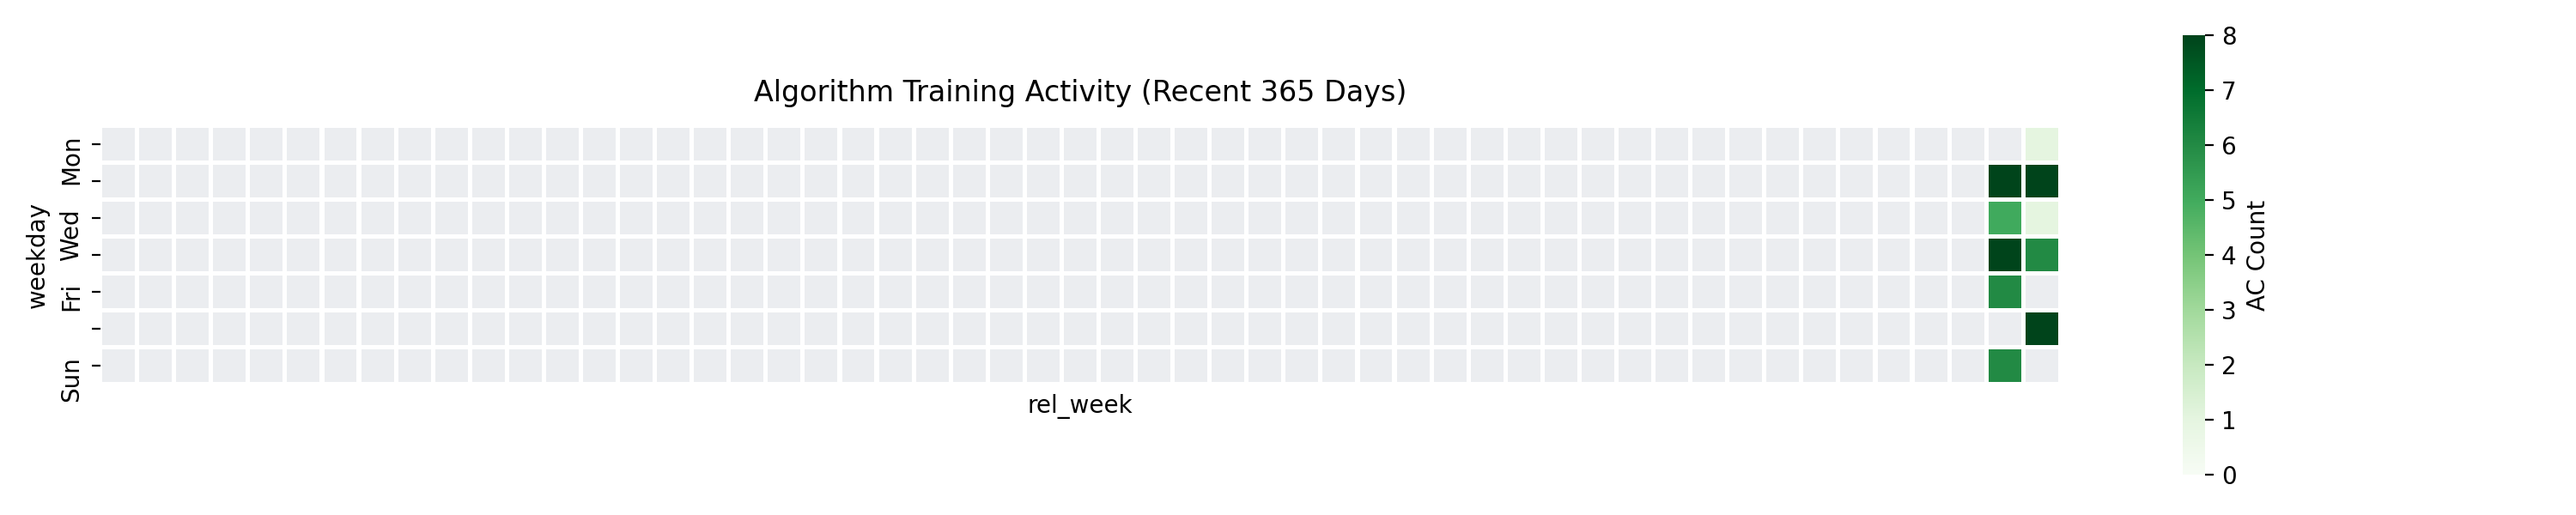
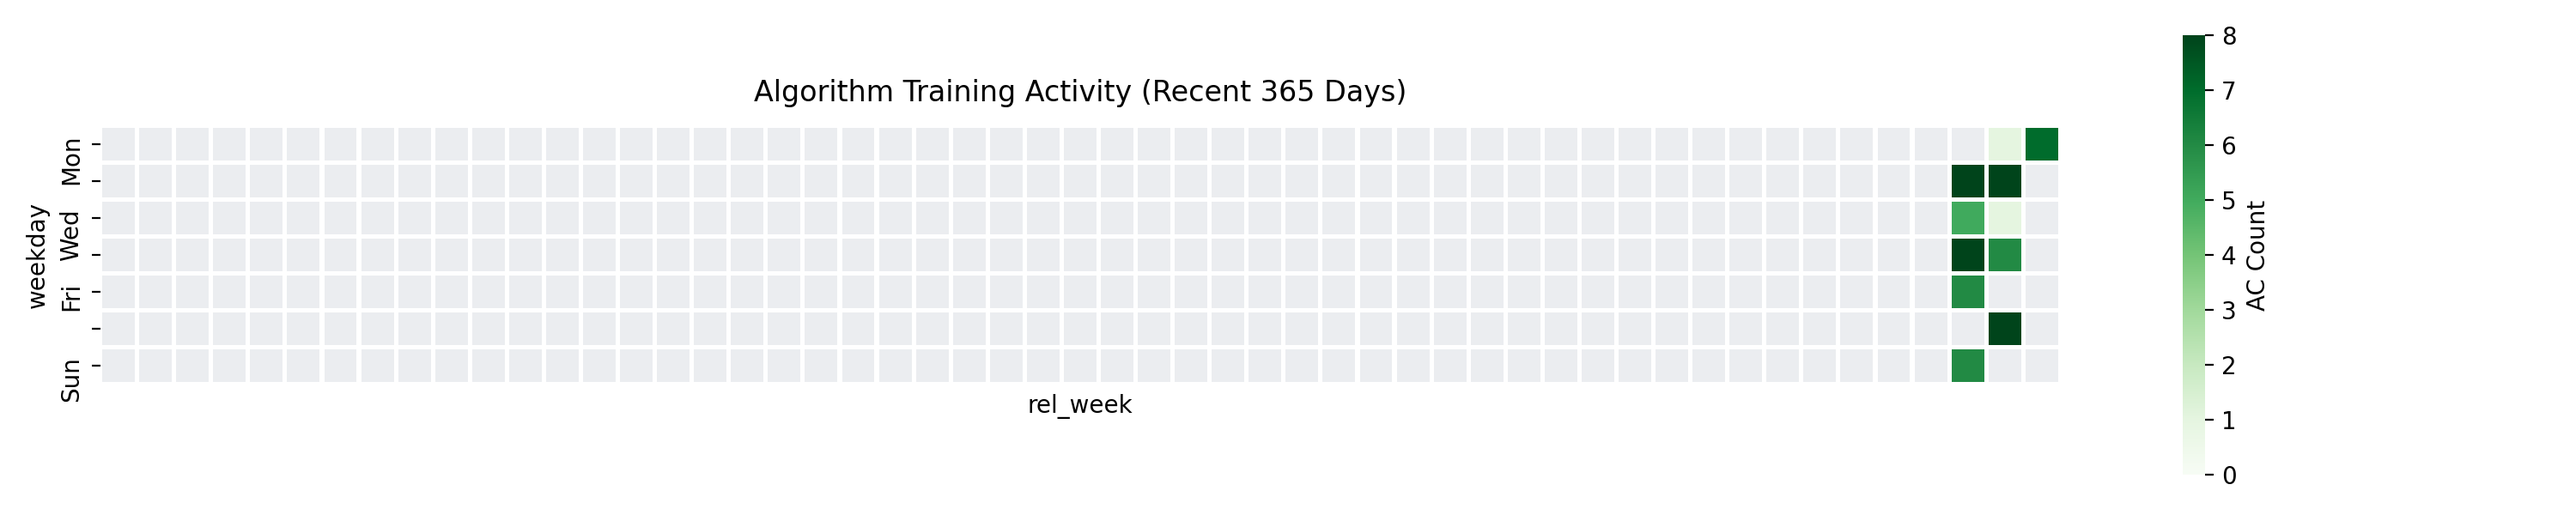
Auto sync: 周一 2026/02/09 23:08:40.57

Changed region(s): [[0.744, 0.24, 0.806, 0.75]]

diff --git a/Attempted/Nowcoder/东风谷早苗与博丽灵梦.cpp b/Attempted/Nowcoder/东风谷早苗与博丽灵梦.cpp
@@ -1,0 +1,107 @@
+#include <bits/stdc++.h>
+using namespace std;
+#define int long long
+#define endl '\n'
+#define LNF 1e18
+#define INF 0x3f3f3f3f
+#define PII pair<int, int>
+
+int c1 = 0, c2 = 0;
+
+int exGcd (int a, int b, int &x, int &y) {
+    if (a==0 && b==0) return -1; // 无gcd
+    if (b == 0) {
+        x = 1;
+        y = 0;
+        return a;
+    }
+    int d = exGcd(b, a%b, y, x);
+    y -= a / b * x;
+    return d;
+}
+
+void solve(){
+    int n, a, b;cin >> n >> a >> b;
+    if (n % gcd(a, b)) {
+        cout << "No" << endl;
+        return;
+    }
+    int x, y;
+    exGcd(a, b, x, y);
+    // cout << x << ' ' << y << endl;
+    x *= n / gcd(a, b);
+    y *= n / gcd(a, b);
+
+    int k1 = b / gcd(a, b);
+    int k2 = a / gcd(a, b);
+    PII res = {x, y};
+    // cout << "++++" << x << ' ' << y << endl;
+    if (x < y) {
+        // while (x < y) {
+        //     // cout << "+++" << x << ' ' << y << endl;
+        //     x += k1;
+        //     y -= k2;
+        //     if (max(x, y) < max(res.first, res.second)) res = {x, y};
+        // }
+        int i = 0, j = 1e18 / max(x, y);
+        int ans = 0;
+        while (i + 1 < j) {
+            int mid = i + j >> 1;
+            if (x + mid * k1 < 0) i = mid;
+            else if (y-mid*k2 < x+mid*k1) {
+                j = mid;
+            } else {
+                i = mid;
+                ans = i;
+            }
+        }
+        x += ans * k1;
+        y -= ans * k2;
+        int nx = x + k1;
+        int ny = y - k2;
+        if (min(nx, ny) >= 0 && (max(nx, ny)) < max(x, y)) {
+            x = nx;
+            y = ny;
+        }
+    } else {
+        // while (x > y) {
+        //     // cout << "+++" << x << ' ' << y << endl;
+        //     x -= k1;
+        //     y += k2;
+        //     if (max(x, y) < max(res.first, res.second)) res = {x, y};
+        // }
+        int i = 0, j = 1e18 / max(x, y);
+        int ans = 0;
+        while (i + 1 < j) {
+            int mid = i + j >> 1;
+            if (y + mid * k2) i = mid;
+            else if (x-mid*k1 < y+mid*k2) {
+                j = mid;
+            } else {
+                i = mid;
+                ans = i;
+            }
+        }
+        x -= ans * k1;
+        y += ans * k2;
+        // cout << "下";
+        int nx = x - k1;
+        int ny = y + k2;
+        if (min(nx, ny) >= 0 && (max(nx, ny)) < max(x, y)) {
+            x = nx;
+            y = ny;
+        }
+    }
+    if (min(x, y) < 0) cout << "No" << endl;
+    else {
+        cout << "Yes" << endl;
+        cout << x << ' ' << y << endl;
+    }
+}
+
+signed main() {
+    ios::sync_with_stdio(false);
+    cin.tie(nullptr);cout.tie(nullptr);
+    int T = 1;cin >> T;
+    while (T--) solve();
+}

diff --git a/Accepted/Nowcoder/2026-02-09/时不时使使用玉米加农炮掩饰害羞的邻座艾莉同学.cpp b/Accepted/Nowcoder/2026-02-09/时不时使使用玉米加农炮掩饰害羞的邻座艾莉同学.cpp
@@ -1,0 +1,68 @@
+#include <bits/stdc++.h>
+using namespace std;
+#define int long long
+#define endl '\n'
+#define LNF 1e18
+#define INF 0x3f3f3f3f
+#define PII pair<int, int>
+
+int n, m;
+bool isGood(int x, int y) {
+    return x>=1 && x<=n && y>=1 && y<=m;
+}
+
+void solve(){
+    int q;cin >> n >> m >> q;
+    vector<vector<int>> arr(n + 7, vector<int>(m + 7));
+    for (int i = 1; i <= n; i++) {
+        for (int j= 1; j <= m; j++) cin >> arr[i][j];
+    }
+
+    vector<vector<int>> cnt(n + 1, vector<int>(m + 1));
+    PII res = {1, 1};
+    int mx = 0;
+    for (int i = 1; i <= n; i++) {
+        for (int j = 1; j <= m; j++) {
+            int x = i, y = j;
+            for (int xx = -2; xx <= 2; xx++) {
+                for (int yy = -2; yy <= 2; yy++) {
+                    if (abs(xx) + abs(yy) > 2) continue;
+                    int nx = x + xx;
+                    int ny = y + yy;
+                    if (isGood(nx, ny)) cnt[x][y] += arr[nx][ny];
+                }
+            }
+            if (cnt[x][y] > mx) {
+                res = {i, j};
+                mx = cnt[x][y];
+            }
+        }
+    }
+
+    while (q--) {
+        int x, y, z;cin >> x >> y >> z;
+        for (int xx = -2; xx <= 2; xx++) {
+            for (int yy = -2; yy <= 2; yy++) {
+                if (abs(xx) + abs(yy) > 2) continue;
+                int nx = x + xx;
+                int ny = y + yy;
+                if (isGood(nx, ny)) {
+                    cnt[nx][ny] += z;
+                    if (cnt[nx][ny] > cnt[res.first][res.second]) res = {nx, ny};
+                }
+            }
+        }
+
+        cout << res.first << ' ' << res.second << endl;
+    }
+    // for (int i = 1; i <= n; i++) {
+    //     for (int j = 1; j <= m; j++) cout << cnt[i][j] << " \n"[j == m];
+    // }
+}
+
+signed main() {
+    ios::sync_with_stdio(false);
+    cin.tie(nullptr);cout.tie(nullptr);
+    int T = 1;//cin >> T;
+    while (T--) solve();
+}

diff --git a/Accepted/Nowcoder/2026-02-09/真白的幻觉.cpp b/Accepted/Nowcoder/2026-02-09/真白的幻觉.cpp
@@ -1,0 +1,53 @@
+#include <bits/stdc++.h>
+using namespace std;
+#define int long long
+#define endl '\n'
+#define LNF 1e18
+#define INF 0x3f3f3f3f
+#define PII pair<int, int>
+
+int calc(int x) {
+    int res = x % 10;
+    x /= 10;
+    while (x) {
+        res *= x % 10;
+        x /= 10;
+    }
+    return res;
+}
+
+int cnt(int x) {
+    int res = 0;
+    while (x != calc(x)) {
+        x = calc(x);
+        res++;
+    }
+    return res;
+}
+
+void solve(){
+    // 277777788888899          11      27777799999999998
+    // 3778888999               10      937638166841712
+    // 3788997988
+    int x = 3788997988;
+    vector<int> fac;
+    // for (int i = 3778888999; i <= 4778888999; i++) {
+    //     if (cnt(i) == 10) cout << i << endl;
+    // }
+    // for (int i = 2; i <= x; i++) {
+    //     if (x % i == 0) {
+    //         cout << i << endl;
+    //         x /= i;
+    //     }
+    // }
+    // cout << calc(27777799999999998) << endl;
+    // cout << cnt(27777799999999998) << endl;
+    cout << 27777799999999998 << ' ' << 277777788888899 << endl;
+}
+
+signed main() {
+    ios::sync_with_stdio(false);
+    cin.tie(nullptr);cout.tie(nullptr);
+    int T = 1;//cin >> T;
+    while (T--) solve();
+}

diff --git a/Accepted/Nowcoder/2026-02-09/本场比赛灵感来源于树状数组出题组.cpp b/Accepted/Nowcoder/2026-02-09/本场比赛灵感来源于树状数组出题组.cpp
@@ -1,0 +1,28 @@
+#include <bits/stdc++.h>
+using namespace std;
+#define int long long
+#define endl '\n'
+#define LNF 1e18
+#define INF 0x3f3f3f3f
+#define PII pair<int, int>
+
+void solve(){
+    int n;cin >> n;
+    vector<int> arr(n + 1);
+    for (int i = 1; i <= n; i++) cin >> arr[i];
+    ranges::sort(arr.begin() + 1, arr.end(), greater<int>());
+    int aid = arr[(n + 4) / 5];
+    // cout << aid << endl;
+    int sum = 0;
+    for (int i = 1; i <= n; i++) {
+        if (arr[i] >= aid) sum += arr[i];
+    }
+    cout << sum << endl;
+}
+
+signed main() {
+    ios::sync_with_stdio(false);
+    cin.tie(nullptr);cout.tie(nullptr);
+    int T = 1;//cin >> T;
+    while (T--) solve();
+}

diff --git a/Accepted/Nowcoder/2026-02-09/爱音的_01_串构造.cpp b/Accepted/Nowcoder/2026-02-09/爱音的_01_串构造.cpp
@@ -1,0 +1,31 @@
+#include <bits/stdc++.h>
+using namespace std;
+#define int long long
+#define endl '\n'
+#define LNF 1e18
+#define INF 0x3f3f3f3f
+#define PII pair<int, int>
+
+void solve(){
+    int a, b;cin >> a >> b;
+    int A = 0, B = 1;
+    if (a > b) {
+        swap(a, b);
+        swap(A, B);
+    }
+    int k = b / (a + 1);
+    int yu = b - (a + 1) * k;
+    for (int i = 1; i <= a+1; i++) {
+        for (int j = 1; j <= k; j++) cout << B;
+        if (i <= yu) cout << B;
+        if (i != a+1) cout << A;
+    }
+    cout << endl;
+}
+
+signed main() {
+    ios::sync_with_stdio(false);
+    cin.tie(nullptr);cout.tie(nullptr);
+    int T = 1;cin >> T;
+    while (T--) solve();
+}

diff --git a/Accepted/Nowcoder/2026-02-09/构造部落.cpp b/Accepted/Nowcoder/2026-02-09/构造部落.cpp
@@ -1,0 +1,28 @@
+#include <bits/stdc++.h>
+using namespace std;
+#define int long long
+#define endl '\n'
+#define LNF 1e18
+#define INF 0x3f3f3f3f
+#define PII pair<int, int>
+
+void solve(){
+    int n, q, s;cin >> n >> q >> s;
+    vector<int> ans(n + 7);
+    ans[1] = s;
+    for (int i = 1; i <= n; i++) {
+        int x;cin >> x;
+        ans[i + 1] = ans[i] + x;
+    }
+    while (q--) {
+        int x, y;cin >> x >> y;
+        cout << ans[x] + y - 1 << endl;
+    }
+}
+
+signed main() {
+    ios::sync_with_stdio(false);
+    cin.tie(nullptr);cout.tie(nullptr);
+    int T = 1;//cin >> T;
+    while (T--) solve();
+}

diff --git a/Accepted/Nowcoder/2026-02-09/墨提斯的排列.cpp b/Accepted/Nowcoder/2026-02-09/墨提斯的排列.cpp
@@ -1,0 +1,21 @@
+#include <bits/stdc++.h>
+using namespace std;
+#define int long long
+#define endl '\n'
+#define LNF 1e18
+#define INF 0x3f3f3f3f
+#define PII pair<int, int>
+
+void solve(){
+    int n;cin >> n;
+    for (int i = 0; i < (1LL << n); i++) {
+        cout << (i ^ (i >> 1LL)) << ' ';
+    }
+}
+
+signed main() {
+    ios::sync_with_stdio(false);
+    cin.tie(nullptr);cout.tie(nullptr);
+    int T = 1;//cin >> T;
+    while (T--) solve();
+}

diff --git a/Accepted/Nowcoder/2026-02-09/初华的扭蛋机.cpp b/Accepted/Nowcoder/2026-02-09/初华的扭蛋机.cpp
@@ -1,0 +1,18 @@
+#include <bits/stdc++.h>
+using namespace std;
+#define int long long
+#define endl '\n'
+#define LNF 1e18
+#define INF 0x3f3f3f3f
+#define PII pair<int, int>
+
+void solve(){
+    cout << "######";
+}
+
+signed main() {
+    ios::sync_with_stdio(false);
+    cin.tie(nullptr);cout.tie(nullptr);
+    int T = 1;//cin >> T;
+    while (T--) solve();
+}

diff --git a/README.md b/README.md
@@ -1,5 +1,5 @@
 # 🏆 Algorithm Training Log
-> 🎯 **Goal:** ACM Silver Medal | *Last updated: 2026-02-07 17:52:36*
+> 🎯 **Goal:** ACM Silver Medal | *Last updated: 2026-02-09 23:08:23*
 
 ## 📈 Heatmap
 ![Algorithm Training Heatmap](ac_heatmap.png)
@@ -15,7 +15,7 @@
             <table width="100%">
                 <thead><tr><th align="center">平台</th><th align="left">题目</th><th align="right">日期</th></tr></thead>
                 <tbody>
-                <tr><td align='center'><code>Nowcoder</code></td><td><a href='https://ac.nowcoder.com/acm/contest/120563/A'>宙天</a></td><td align='right'>02-07</td></tr><tr><td align='center'><code>Nowcoder</code></td><td><a href='https://ac.nowcoder.com/acm/contest/120563/G'>スピカの天秤</a></td><td align='right'>02-07</td></tr><tr><td align='center'><code>Nowcoder</code></td><td><a href='https://ac.nowcoder.com/acm/contest/120563/H'>Tic_Tac_DREAMIN</a></td><td align='right'>02-07</td></tr><tr><td align='center'><code>Nowcoder</code></td><td><a href='https://ac.nowcoder.com/acm/contest/120563/B'>Random</a></td><td align='right'>02-07</td></tr><tr><td align='center'><code>Nowcoder</code></td><td><a href='https://ac.nowcoder.com/acm/contest/120563/C'>Inverted_World</a></td><td align='right'>02-07</td></tr>
+                <tr><td align='center'><code>Nowcoder</code></td><td><a href='https://ac.nowcoder.com/acm/contest/120564/G'>真白的幻觉</a></td><td align='right'>02-09</td></tr><tr><td align='center'><code>Nowcoder</code></td><td><a href='https://ac.nowcoder.com/acm/contest/120564/F'>爱音的_01_串构造</a></td><td align='right'>02-09</td></tr><tr><td align='center'><code>Nowcoder</code></td><td><a href='https://ac.nowcoder.com/acm/contest/120564/B'>构造部落</a></td><td align='right'>02-09</td></tr><tr><td align='center'><code>Nowcoder</code></td><td><a href='https://ac.nowcoder.com/acm/contest/120564/A'>本场比赛灵感来源于树状数组出题组</a></td><td align='right'>02-09</td></tr><tr><td align='center'><code>Nowcoder</code></td><td><a href='https://ac.nowcoder.com/acm/contest/120564/H'>时不时使使用玉米加农炮掩饰害羞的邻座艾莉同学</a></td><td align='right'>02-09</td></tr>
                 </tbody>
             </table>
         </td>
@@ -37,6 +37,7 @@
 
 | 日期 | Codeforces | Luogu | Nowcoder | Others | Vjudge | **Total** |
 | :--- | :---: | :---: | :---: | :---: | :---: | :---: |
+| [2026-02-09](./DailyLogs/2026-02-09.md) | - | - | 7 | - | - | **7** |
 | [2026-02-07](./DailyLogs/2026-02-07.md) | - | - | 8 | - | - | **8** |
 | [2026-02-05](./DailyLogs/2026-02-05.md) | - | - | 6 | - | - | **6** |
 | [2026-02-04](./DailyLogs/2026-02-04.md) | - | - | 1 | - | - | **1** |

diff --git a/DailyLogs/2026-02-09.md b/DailyLogs/2026-02-09.md
@@ -1,0 +1,11 @@
+# 📝 训练总结: 2026-02-09
+
+| 平台 | 题目名称 | 源码跳转 |
+| :--- | :--- | :--- |
+| `Nowcoder` | [初华的扭蛋机](https://ac.nowcoder.com/acm/contest/120564/I) | [查看代码](../Accepted/Nowcoder/2026-02-09/初华的扭蛋机.cpp) |
+| `Nowcoder` | [墨提斯的排列](https://ac.nowcoder.com/acm/contest/120564/C) | [查看代码](../Accepted/Nowcoder/2026-02-09/墨提斯的排列.cpp) |
+| `Nowcoder` | [时不时使使用玉米加农炮掩饰害羞的邻座艾莉同学](https://ac.nowcoder.com/acm/contest/120564/H) | [查看代码](../Accepted/Nowcoder/2026-02-09/时不时使使用玉米加农炮掩饰害羞的邻座艾莉同学.cpp) |
+| `Nowcoder` | [本场比赛灵感来源于树状数组出题组](https://ac.nowcoder.com/acm/contest/120564/A) | [查看代码](../Accepted/Nowcoder/2026-02-09/本场比赛灵感来源于树状数组出题组.cpp) |
+| `Nowcoder` | [构造部落](https://ac.nowcoder.com/acm/contest/120564/B) | [查看代码](../Accepted/Nowcoder/2026-02-09/构造部落.cpp) |
+| `Nowcoder` | [爱音的_01_串构造](https://ac.nowcoder.com/acm/contest/120564/F) | [查看代码](../Accepted/Nowcoder/2026-02-09/爱音的_01_串构造.cpp) |
+| `Nowcoder` | [真白的幻觉](https://ac.nowcoder.com/acm/contest/120564/G) | [查看代码](../Accepted/Nowcoder/2026-02-09/真白的幻觉.cpp) |
